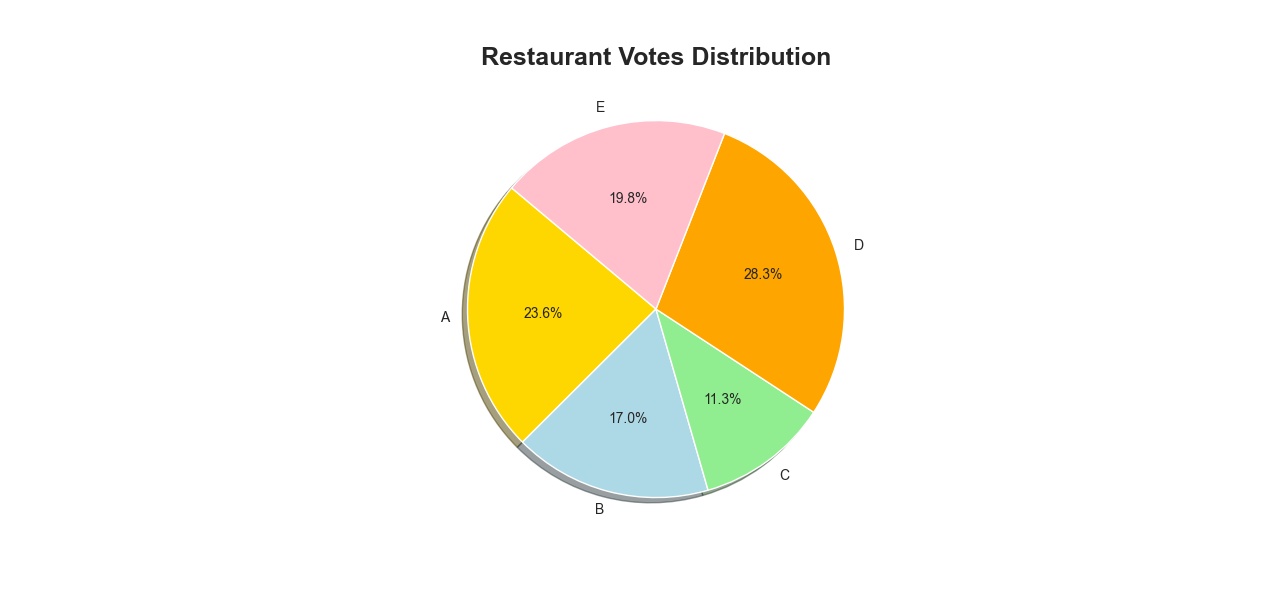
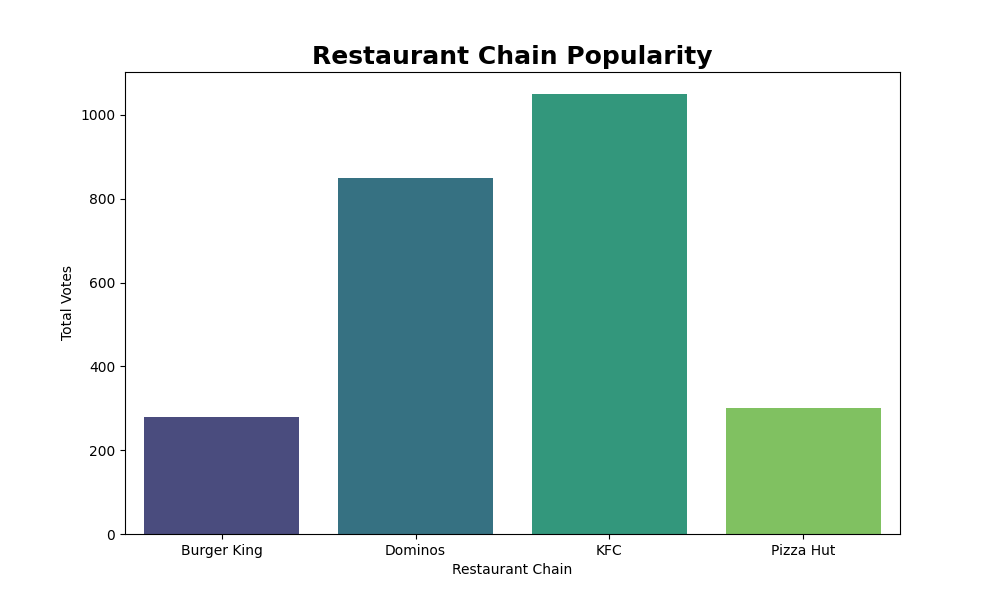
Completed Task2 Restaurant Chain Analysis Project

diff --git a/restaurantchains.py b/restaurantchains.py
@@ -1,0 +1,65 @@
+import pandas as pd
+import matplotlib.pyplot as plt
+import seaborn as sns
+
+data = {
+    'Restaurant_Chain': ['KFC', 'Dominos', 'Pizza Hut', 'KFC', 'Dominos', 'Burger King'],
+    'Branch': ['Hyderabad', 'Chennai', 'Bangalore', 'Mumbai', 'Delhi', 'Pune'],
+    'Ratings': [4.5, 4.2, 4.0, 4.6, 4.1, 3.9],
+    'Votes': [500, 450, 300, 550, 400, 280]
+}
+
+df = pd.DataFrame(data)
+
+print(df)
+
+chain_count = df['Restaurant_Chain'].value_counts()
+
+print(chain_count)
+
+average_ratings = df.groupby('Restaurant_Chain')['Ratings'].mean()
+
+print(average_ratings)
+
+total_votes = df.groupby('Restaurant_Chain')['Votes'].sum()
+
+print(total_votes)
+
+plt.figure(figsize=(10,6))
+
+sns.barplot(
+    x='Restaurant_Chain',
+    y='Ratings',
+    data=df,
+    palette='Set2'
+)
+
+plt.title(
+    "Restaurant Chain Ratings Analysis",
+    fontsize=18,
+    fontweight='bold'
+)
+
+plt.xlabel("Restaurant Chain")
+plt.ylabel("Ratings")
+
+plt.show()
+
+plt.figure(figsize=(10,6))
+
+sns.barplot(
+    x=total_votes.index,
+    y=total_votes.values,
+    palette='viridis'
+)
+
+plt.title(
+    "Restaurant Chain Popularity",
+    fontsize=18,
+    fontweight='bold'
+)
+
+plt.xlabel("Restaurant Chain")
+plt.ylabel("Total Votes")
+
+plt.show()

diff --git a/README.md b/README.md
@@ -1,36 +1,55 @@
-- Data Visualization Project
+-Restaurant Chains Analysis project
 
-- Overview  
-  This project focuses on transforming raw restaurant data into meaningful visual insights using Python data visualization libraries.
+Overview
 
-- Objective  
-  To analyze restaurant ratings, votes, and cost information through clear and professional charts and graphs.
+This project focuses on identifying restaurant chains within a dataset and analyzing their ratings and popularity based on customer reviews, votes, and cost-related information.
 
-- Tools & Technologies  
-  - Python  
-  - Pandas  
-  - Matplotlib  
-  - Seaborn  
-  - VS Code  
+Objective
 
-- Dataset  
-  The dataset includes the following features:  
-  - Restaurant Names  
-  - Ratings  
-  - Votes  
-  - Cost Information  
+To identify restaurants that operate as chains (multiple outlets under the same name).
+To analyze and compare the performance of different restaurant chains.
+To understand customer preferences using ratings and vote counts.
+Dataset Description
 
-- Visualizations Created  
-  - Bar Chart – Restaurant Ratings Analysis  
-  - Pie Chart – Votes Distribution  
-  - Scatter Plot – Ratings vs Votes Analysis  
-  - Line Chart – Cost Analysis of Restaurants  
+The dataset includes the following attributes:
 
-- Key Insights  
-  - Restaurants with higher ratings generally received more customer votes.  
-  - Certain restaurants showed higher popularity based on ratings and engagement.  
-  - Cost trends were effectively visualized using line plots.  
-  - Data visualization makes complex data easier to understand and interpret.  
+Restaurant Name
+Location
+Ratings
+Number of Votes
+Average Cost for Two
+Cuisine Type
 
-- Conclusion  
-  This project demonstrates how data visualization transforms raw datasets into meaningful insights. It helps in better analysis, storytelling, and data-driven decision-making.
+Key Tasks Performed
+
+1. Identification of Restaurant Chains
+Grouped restaurants based on their names.
+Identified restaurants with multiple outlets.
+Extracted and analyzed chain-level data.
+2. Ratings Analysis
+Calculated average ratings for each restaurant chain.
+Compared rating distributions among different chains.
+3. Popularity Analysis
+Used total number of votes to measure popularity.
+Identified the most and least popular restaurant chains.
+4. Data Insights
+Compared rating trends with customer engagement.
+Evaluated how popularity influences restaurant performance.
+
+Key Insights
+
+KFC and Domino’s are identified as major restaurant chains in the dataset.
+KFC achieved the highest ratings along with the highest number of customer votes, indicating strong customer preference.
+Domino’s shows consistent performance with stable customer engagement across its outlets.
+A higher number of customer votes generally reflects greater restaurant popularity and customer reach.
+
+Tools & Technologies Used
+Python
+Pandas
+Matplotlib
+Seaborn
+Google Colab / Jupyter Notebook
+
+Conclusion
+
+This analysis provides useful insights into how restaurant chains perform in terms of ratings and popularity. It highlights the relationship between customer engagement and restaurant success.